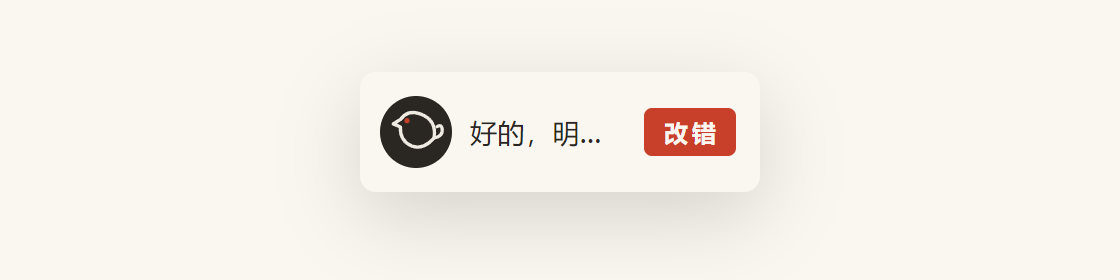
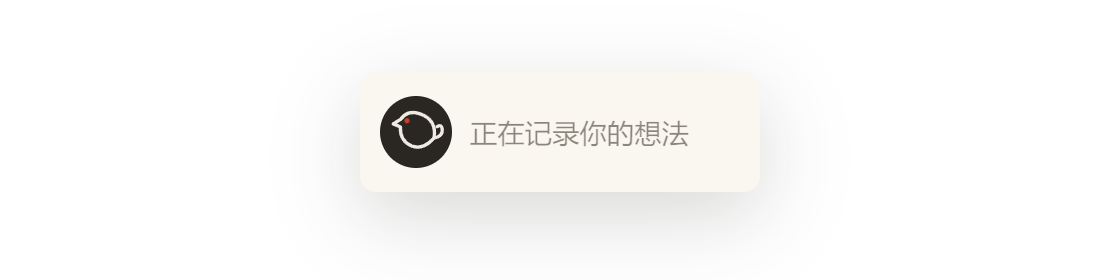
官网：白描线条鸟标（去墨圆白边）+ 透明底语音框 + 泰斗酒厂文案修正 + 纯二维码 + 百度网盘链接；已上线 49.gx.cn/bailing/

Changed region(s): [[0.4062, 0.3714, 0.6562, 0.5714]]

diff --git a/site/index.html b/site/index.html
@@ -32,6 +32,11 @@
   .hero .inner{ position:relative; }
   .hero img.logo{ width:92px; height:92px; border-radius:50%;
          box-shadow:0 10px 40px rgba(0,0,0,.5), 0 0 0 1px rgba(240,235,226,.12); }
+  .hero .bird{ width:110px; height:110px;
+         filter:drop-shadow(0 8px 30px rgba(0,0,0,.5)); }
+  .hero .bird .b-line{ fill:none; stroke:#f0ebe2; stroke-width:2.2;
+         stroke-linecap:round; stroke-linejoin:round; }
+  .hero .bird .b-eye{ fill:#e05a44; }
   .hero h1{ font-size:52px; font-weight:800; letter-spacing:1px; margin-top:30px; line-height:1.3; }
   .hero h1 .zhu{ color:var(--zhu-bright); }
   .hero .sub{ margin:18px auto 0; max-width:620px; font-size:18px; color:var(--dim-on-ink); }
@@ -42,9 +47,9 @@
   .btn.primary:hover{ transform:translateY(-2px); box-shadow:0 12px 32px rgba(200,64,42,.5); }
   .btn.ghost{ background:transparent; color:var(--paper-on-ink); border:1px solid rgba(240,235,226,.3); }
   .btn.ghost:hover{ background:rgba(240,235,226,.08); }
-  .hero .hud{ margin:64px auto 0; max-width:720px; padding:0 28px; }
-  .hero .hud img{ width:100%; display:block; border-radius:18px;
-         box-shadow:0 -10px 60px rgba(0,0,0,.45), 0 0 0 1px rgba(240,235,226,.08); }
+  .hero .hud{ margin:64px auto 0; max-width:720px; padding:0 28px 56px; }
+  .hero .hud img{ width:100%; display:block;
+         filter:drop-shadow(0 18px 44px rgba(0,0,0,.5)); }
 
   /* ===== 章节标题 ===== */
   .kicker{ font-size:13px; font-weight:700; letter-spacing:3px; color:var(--zhu); }
@@ -143,7 +148,11 @@
 <header class="hero">
   <div class="inner">
     <div class="wrap">
-      <img class="logo" src="assets/badge.png" alt="百灵 Mynah" />
+      <svg class="bird" viewBox="0 0 48 48" aria-hidden="true">
+        <path class="b-line" d="M36 28 Q38 16 27 12 Q18.5 8.8 13.8 15.5 L8.8 18.6 L13.6 20.6 Q13 30 21.5 33.5 Q29 36 36 28" />
+        <path class="b-line" d="M36 28 Q42 27 41.5 22 Q41 18.5 38 20.5" />
+        <circle class="b-eye" cx="18" cy="16.5" r="1.7" />
+      </svg>
       <h1>连着你的<span class="zhu">第二大脑</span><br />越说越懂你</h1>
       <p class="sub">百灵 Mynah —— 给构建知识库的人做的新时代语音输入法（Windows）<br />
       按住说话，松开出字。它读你的 Obsidian，懂你的领域，写对你的专名。</p>
@@ -194,11 +203,11 @@
       <div class="cols">
         <div class="pane raw">
           <span class="tag raw">随口说</span>
-          <div>嗯那个就是，<s>呃</s>我们跟<s>那个</s>太抖酒，<s>不对不对，</s>泰斗，泰斗酒那边的合作，下周三，<s>哦不对，</s>下周四上午十点碰一下，然后呢把四季坊，<s>那个</s>肆拾玖坊的报价也带上</div>
+          <div>嗯那个就是，<s>呃</s>我们跟泰斗酒厂，<s>不对不对，</s>就是泰斗酒他们厂，那边的合作，下周三，<s>哦不对，</s>下周四上午十点碰一下，然后呢把四季坊，<s>那个</s>肆拾玖坊的报价也带上</div>
         </div>
         <div class="pane out">
           <span class="tag out">百灵出字</span>
-          <div>下周<b>四上午 10 点</b>，和<b>泰斗酒</b>碰合作，带上<b>肆拾玖坊</b>的报价。</div>
+          <div>下周<b>四上午 10 点</b>，和<b>泰斗酒厂</b>碰合作，带上<b>肆拾玖坊</b>的报价。</div>
         </div>
       </div>
     </div>
@@ -277,7 +286,7 @@
     <h2>现在就让输入法<br />连上你的第二大脑</h2>
     <div class="cta">
       <a class="btn primary" href="https://github.com/msaysay/bailing/releases/latest">GitHub 下载（推荐）</a>
-      <a class="btn ghost" href="#" id="netdisk" onclick="return false" style="opacity:.55">百度网盘下载（链接稍后补上）</a>
+      <a class="btn ghost" href="https://pan.baidu.com/s/1Vs5IUEae33lyUsRgv_NOpA">百度网盘下载（提取码 hisb）</a>
     </div>
     <p class="note">Windows 10/11 · 安装包 ~82MB · 数据全部保存在你自己的电脑上</p>
   </div>
@@ -286,7 +295,7 @@
 <!-- 10 · 页脚 -->
 <footer>
   <div class="wrap">
-    <img class="qr" src="assets/qr.jpg" alt="陈宁的微信二维码" />
+    <img class="qr" src="assets/qr.png" alt="陈宁的微信二维码" />
     <p class="say">做知识库的同路人，加个微信聊聊</p>
     <p class="fine">
       百灵 Mynah · 神鸟家族 · 一个不懂代码的创业者，用 AI 协作开发<br />

diff --git a/scripts/crop-qr.js b/scripts/crop-qr.js
@@ -1,0 +1,21 @@
+'use strict';
+// 从微信分享卡里裁出纯二维码：npx electron scripts/crop-qr.js
+const { app, nativeImage } = require('electron');
+const path = require('path');
+const fs = require('fs');
+
+const ROOT = path.join(__dirname, '..');
+
+app.whenReady().then(() => {
+  const img = nativeImage.createFromPath(path.join(ROOT, 'site/assets/qr.jpg'));
+  const { width, height } = img.getSize();
+  console.log('原图', width, 'x', height);
+  // 微信分享卡：二维码约在纵向 26%~82%，居中。留出空白边
+  const size = Math.round(width * 0.74);
+  const x = Math.round((width - size) / 2);
+  const y = Math.round(height * 0.255);
+  const cropped = img.crop({ x, y, width: size, height: size });
+  fs.writeFileSync(path.join(ROOT, 'site/assets/qr.png'), cropped.toPNG());
+  console.log('生成 site/assets/qr.png', size, 'x', size);
+  app.quit();
+});

diff --git a/scripts/preview-indicator.js b/scripts/preview-indicator.js
@@ -39,7 +39,7 @@ app.whenReady().then(async () => {
     document.getElementById('pill').style.borderRadius='8px';
     document.getElementById('pill').style.margin='36px auto';
     document.getElementById('pill').style.boxShadow='0 12px 40px rgba(42,39,35,.18)';
-    document.body.style.background='#faf7f1';
+    // 透明底：官网 Hero 上只放语音框本体
   `);
   for (const [name, js] of STATES) {
     await win.webContents.executeJavaScript(RESET + js);
